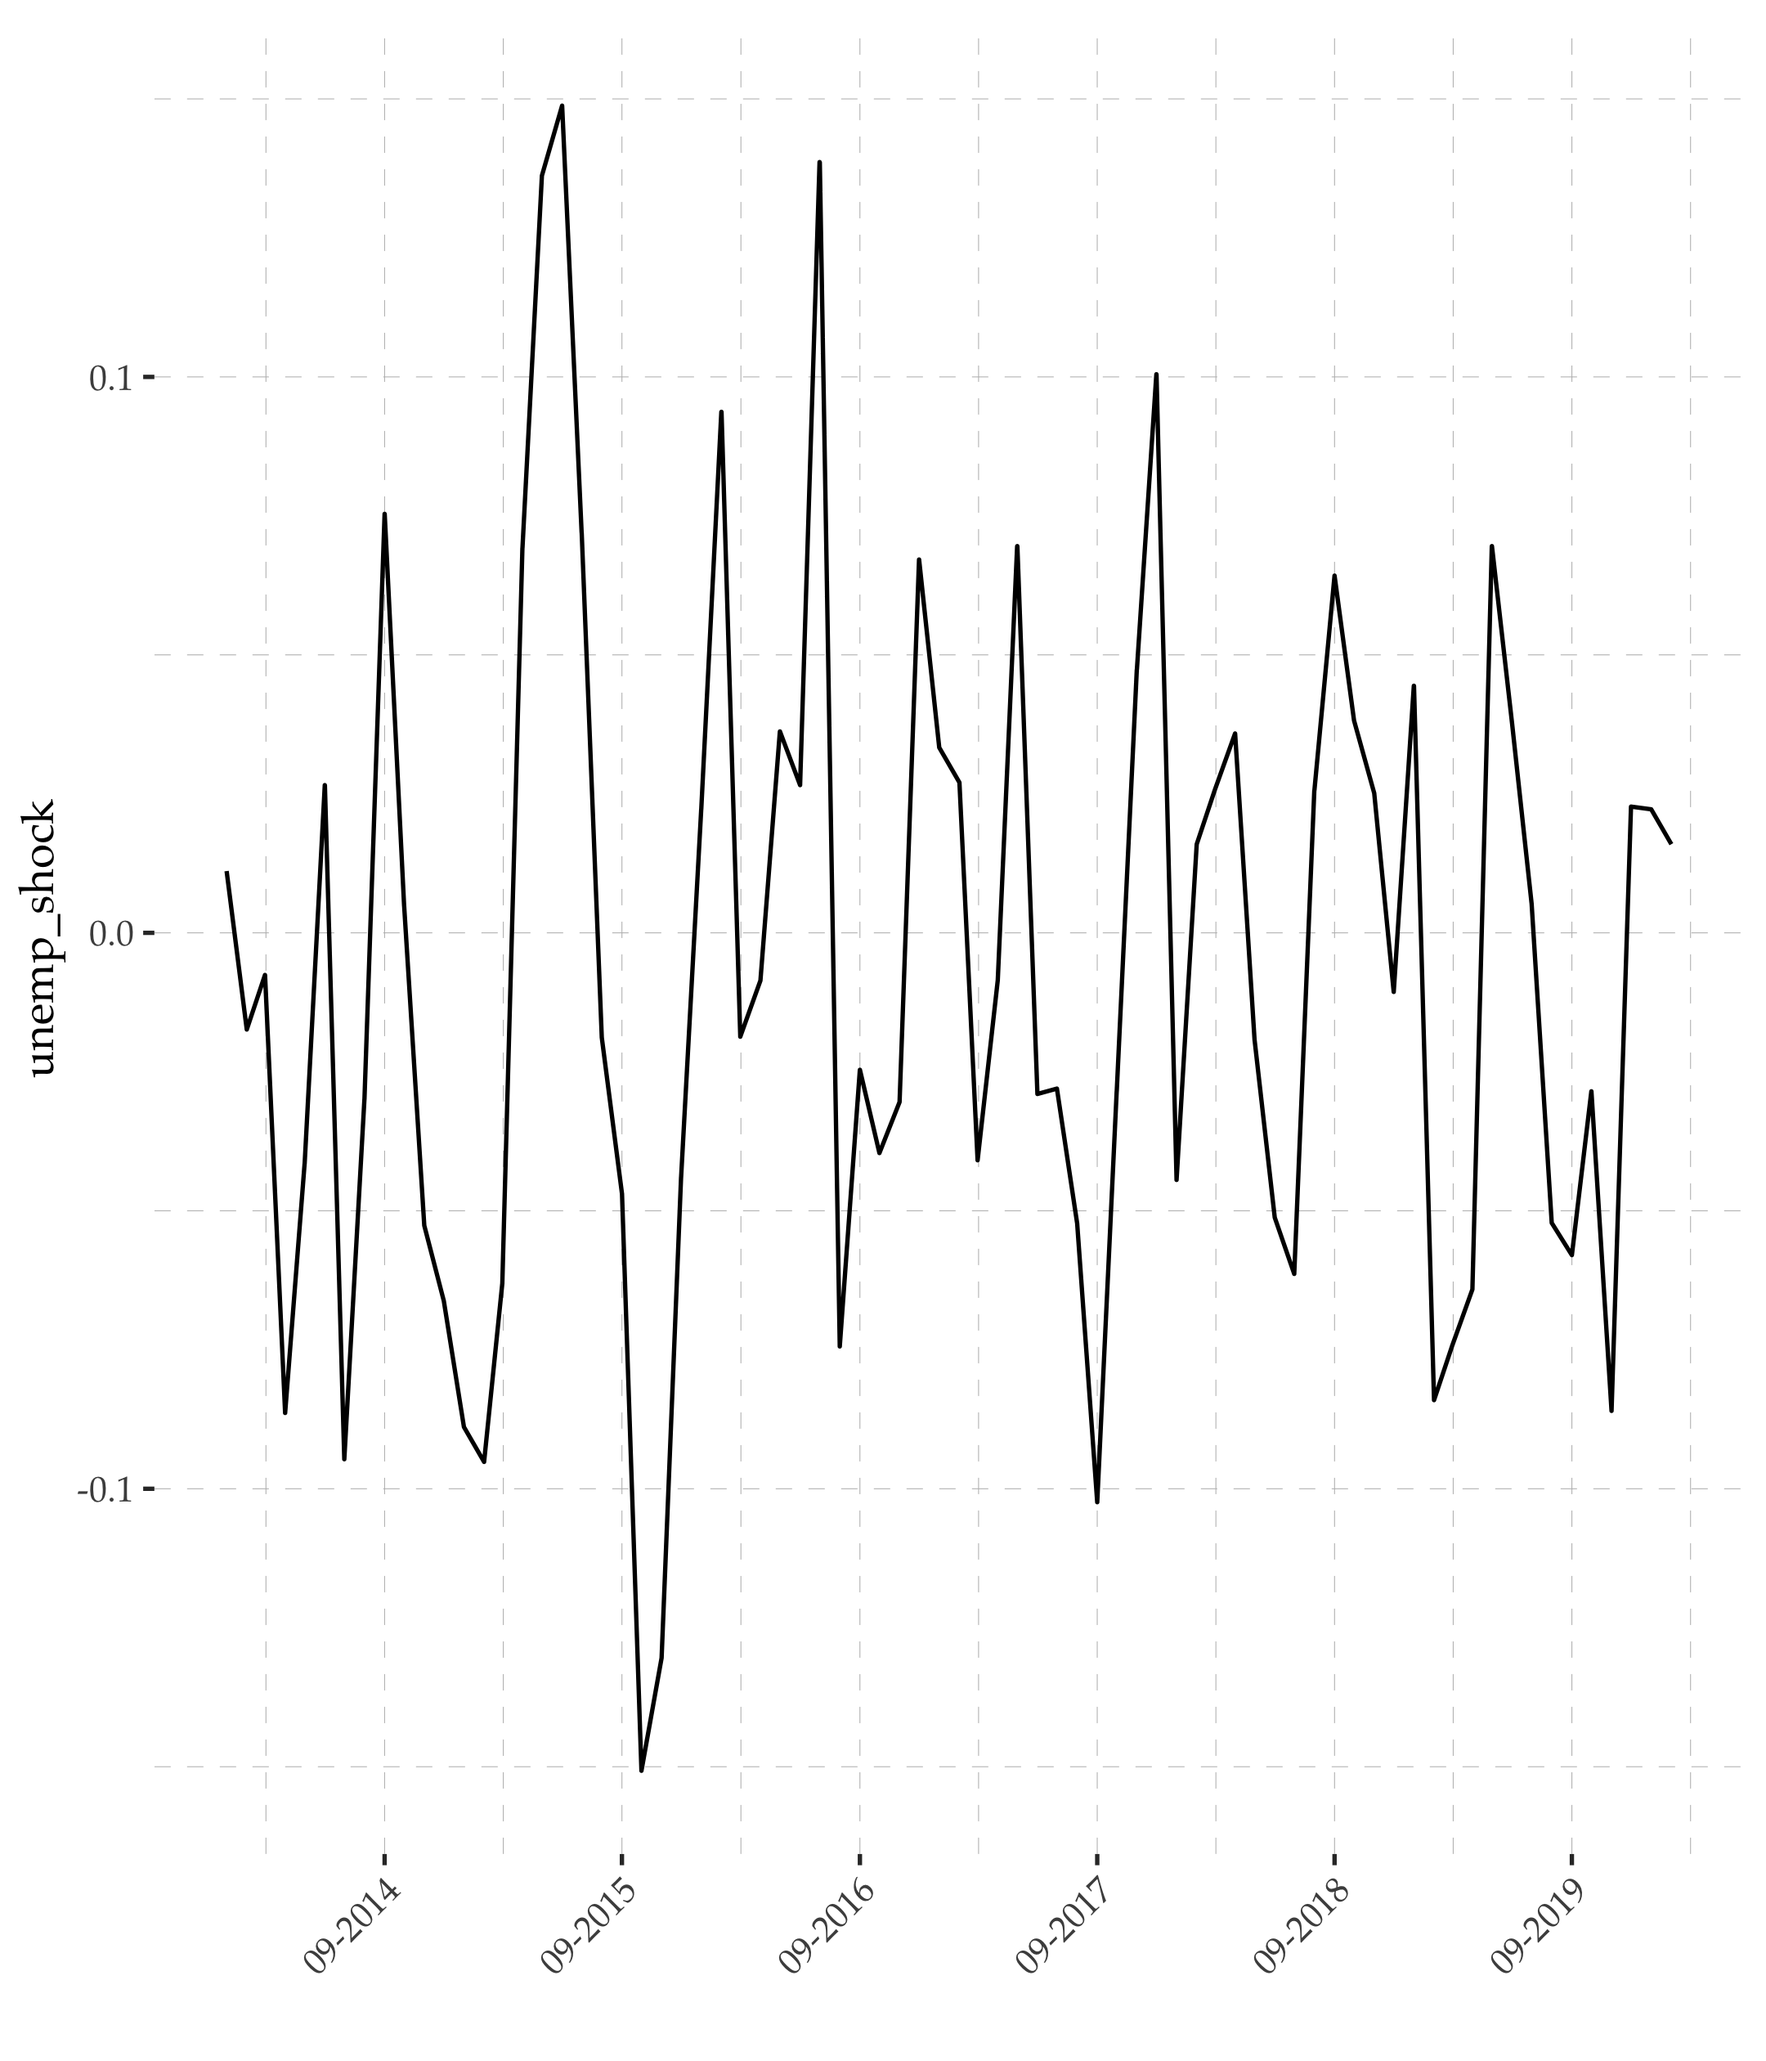
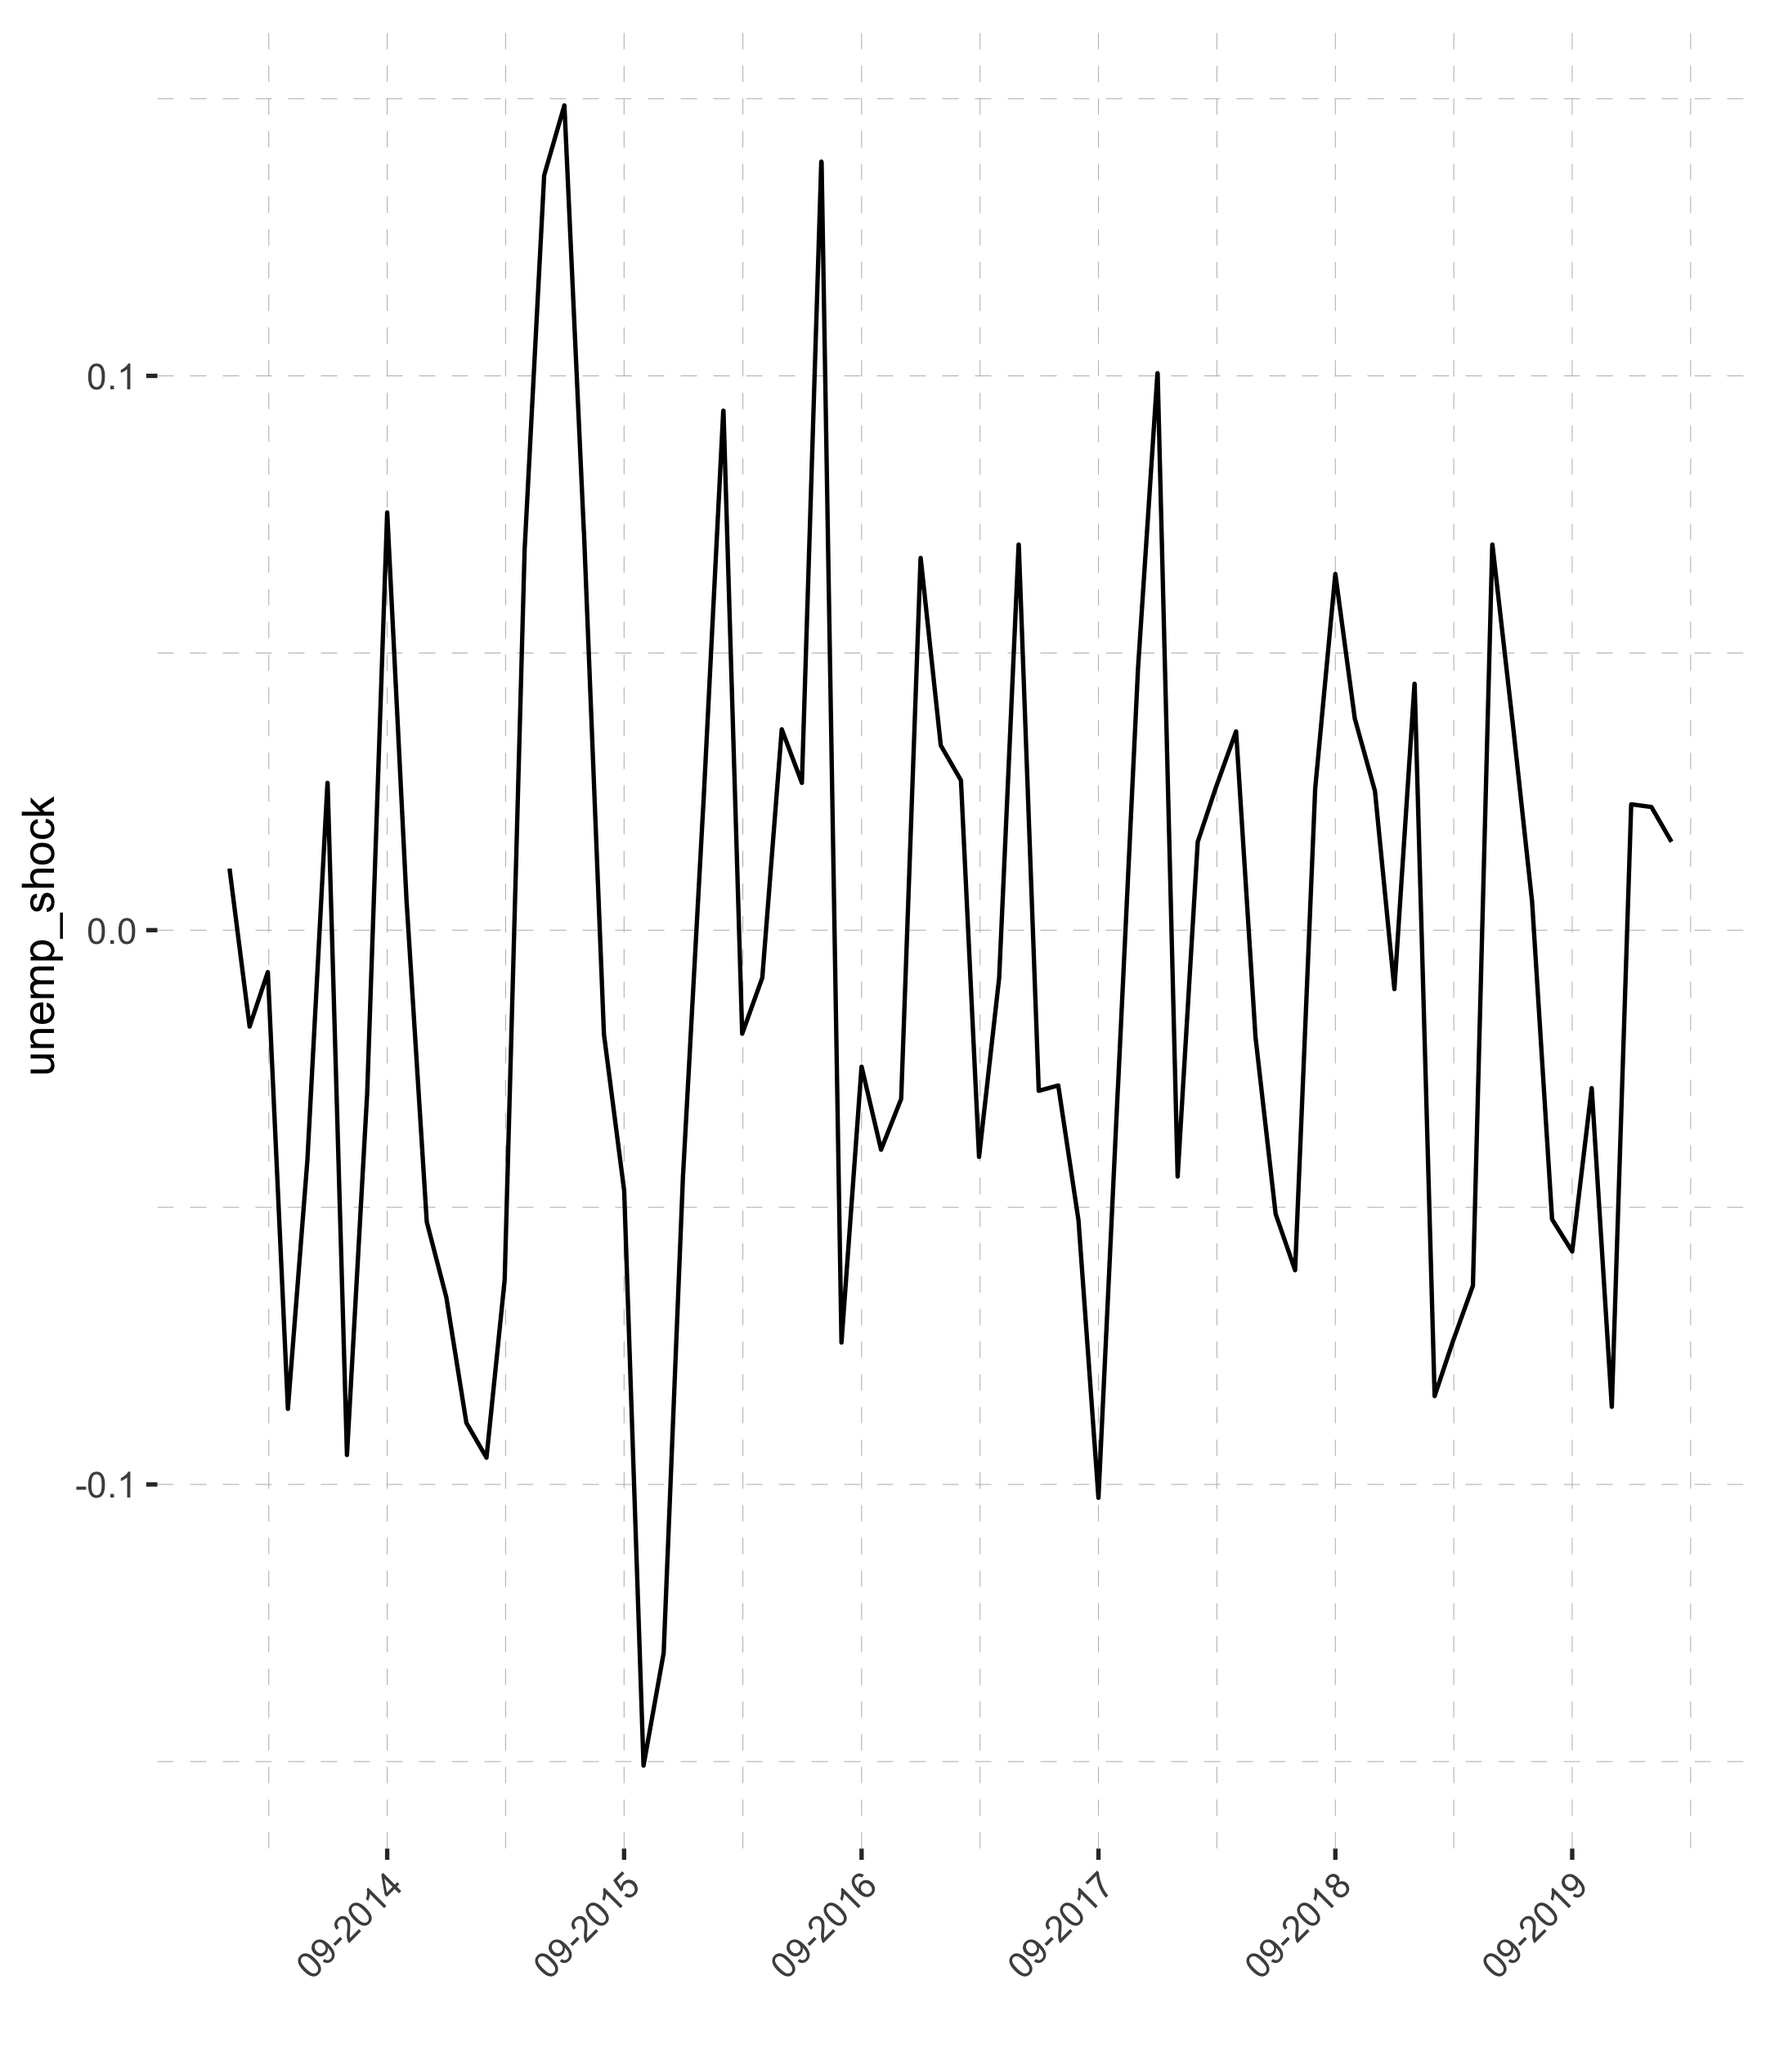
made changes to slides

diff --git a/lectures/lecture7.html b/lectures/lecture7.html
@@ -56,11 +56,8 @@ code.r.hljs.remark-code:hover{
 
 2. Explain how the unemployment rate is calculated.
 
-3. Explain and interpret the Phillips curve.
+3. Explain the intuition behind seasonal adjustment. 
 
-4. Explain and interpret the Beveridge curve.
-
-5. Explain the intuition behind seasonal adjustment. 
 ---
 
 
@@ -1359,7 +1356,6 @@ ggplot(data = df, aes(x = date, y = unemp_month))+
 *       panel.grid.minor = element_line('grey', size = 0.1, linetype = 'dashed'),
 *       panel.grid.major = element_line('grey', size = 0.1, linetype = 'dashed'),
 *       legend.key = element_rect(fill = NA),
-*       text=element_text(family="Palatino"),
 *       axis.text.x=element_text(angle=45, hjust=1),
 *       panel.background = element_rect(fill = "transparent", colour = NA),
 *       plot.background = element_rect(fill = "transparent", colour = NA))
@@ -1390,7 +1386,6 @@ ggplot(data = df, aes(x = date, y = unemp_month))+
         panel.grid.minor = element_line('grey', size = 0.1, linetype = 'dashed'),
         panel.grid.major = element_line('grey', size = 0.1, linetype = 'dashed'),
         legend.key = element_rect(fill = NA),
-        text=element_text(family="Palatino"),
         axis.text.x=element_text(angle=45, hjust=1),
         panel.background = element_rect(fill = "transparent", colour = NA),
         plot.background = element_rect(fill = "transparent", colour = NA))+
@@ -1422,7 +1417,6 @@ ggplot(data = df, aes(x = date, y = unemp_month))+
         panel.grid.minor = element_line('grey', size = 0.1, linetype = 'dashed'),
         panel.grid.major = element_line('grey', size = 0.1, linetype = 'dashed'),
         legend.key = element_rect(fill = NA),
-        text=element_text(family="Palatino"),
         axis.text.x=element_text(angle=45, hjust=1),
         panel.background = element_rect(fill = "transparent", colour = NA),
         plot.background = element_rect(fill = "transparent", colour = NA))+
@@ -1455,7 +1449,6 @@ ggplot(data = df, aes(x = date, y = unemp_month))+
         panel.grid.minor = element_line('grey', size = 0.1, linetype = 'dashed'),
         panel.grid.major = element_line('grey', size = 0.1, linetype = 'dashed'),
         legend.key = element_rect(fill = NA),
-        text=element_text(family="Palatino"),
         axis.text.x=element_text(angle=45, hjust=1),
         panel.background = element_rect(fill = "transparent", colour = NA),
         plot.background = element_rect(fill = "transparent", colour = NA))+
@@ -1489,7 +1482,6 @@ ggplot(data = df, aes(x = date, y = unemp_month))+
         panel.grid.minor = element_line('grey', size = 0.1, linetype = 'dashed'),
         panel.grid.major = element_line('grey', size = 0.1, linetype = 'dashed'),
         legend.key = element_rect(fill = NA),
-        text=element_text(family="Palatino"),
         axis.text.x=element_text(angle=45, hjust=1),
         panel.background = element_rect(fill = "transparent", colour = NA),
         plot.background = element_rect(fill = "transparent", colour = NA))+
@@ -1525,7 +1517,6 @@ ggplot(data = df, aes(x = date, y = unemp_month))+
         panel.grid.minor = element_line('grey', size = 0.1, linetype = 'dashed'),
         panel.grid.major = element_line('grey', size = 0.1, linetype = 'dashed'),
         legend.key = element_rect(fill = NA),
-        text=element_text(family="Palatino"),
         axis.text.x=element_text(angle=45, hjust=1),
         panel.background = element_rect(fill = "transparent", colour = NA),
         plot.background = element_rect(fill = "transparent", colour = NA))+
@@ -1750,7 +1741,6 @@ ggplot(data = df, aes(x = date, y = unemp_shock))+
 *       panel.grid.minor = element_line('grey', size = 0.1, linetype = 'dashed'),
 *       panel.grid.major = element_line('grey', size = 0.1, linetype = 'dashed'),
 *       legend.key = element_rect(fill = NA),
-*       text=element_text(family="Palatino"),
 *       axis.text.x=element_text(angle=45, hjust=1),
 *       panel.background = element_rect(fill = "transparent", colour = NA),
 *       plot.background = element_rect(fill = "transparent", colour = NA))
@@ -1781,7 +1771,6 @@ ggplot(data = df, aes(x = date, y = unemp_shock))+
         panel.grid.minor = element_line('grey', size = 0.1, linetype = 'dashed'),
         panel.grid.major = element_line('grey', size = 0.1, linetype = 'dashed'),
         legend.key = element_rect(fill = NA),
-        text=element_text(family="Palatino"),
         axis.text.x=element_text(angle=45, hjust=1),
         panel.background = element_rect(fill = "transparent", colour = NA),
         plot.background = element_rect(fill = "transparent", colour = NA))+
@@ -1813,7 +1802,6 @@ ggplot(data = df, aes(x = date, y = unemp_shock))+
         panel.grid.minor = element_line('grey', size = 0.1, linetype = 'dashed'),
         panel.grid.major = element_line('grey', size = 0.1, linetype = 'dashed'),
         legend.key = element_rect(fill = NA),
-        text=element_text(family="Palatino"),
         axis.text.x=element_text(angle=45, hjust=1),
         panel.background = element_rect(fill = "transparent", colour = NA),
         plot.background = element_rect(fill = "transparent", colour = NA))+
@@ -1846,7 +1834,6 @@ ggplot(data = df, aes(x = date, y = unemp_shock))+
         panel.grid.minor = element_line('grey', size = 0.1, linetype = 'dashed'),
         panel.grid.major = element_line('grey', size = 0.1, linetype = 'dashed'),
         legend.key = element_rect(fill = NA),
-        text=element_text(family="Palatino"),
         axis.text.x=element_text(angle=45, hjust=1),
         panel.background = element_rect(fill = "transparent", colour = NA),
         plot.background = element_rect(fill = "transparent", colour = NA))+
@@ -1880,7 +1867,6 @@ ggplot(data = df, aes(x = date, y = unemp_shock))+
         panel.grid.minor = element_line('grey', size = 0.1, linetype = 'dashed'),
         panel.grid.major = element_line('grey', size = 0.1, linetype = 'dashed'),
         legend.key = element_rect(fill = NA),
-        text=element_text(family="Palatino"),
         axis.text.x=element_text(angle=45, hjust=1),
         panel.background = element_rect(fill = "transparent", colour = NA),
         plot.background = element_rect(fill = "transparent", colour = NA))+
@@ -1978,19 +1964,32 @@ Approach:
 
 ## The labour market: other topics
 
-Labour supply\vspace{-0.2cm}
+Labour supply
 
-- Extensive margin vs intensive margin\vspace{-0.2cm}
+- Extensive margin vs intensive margin
 
 - Hours worked
 
-Earnings\vspace{-0.2cm}
+Earnings
 
 - Wages, Salary, survey based, register based
 
-Gender disparities\vspace{-0.2cm}
+Gender disparities
 
 - Earnings &amp; promotions
+
+
+
+
+---
+
+## Summary
+
+1. Explain the difference between register and survey (or ILO) unemployment.
+
+2. Explain how the unemployment rate is calculated.
+
+3. Explain the intuition behind seasonal adjustment. 
 
 
 
